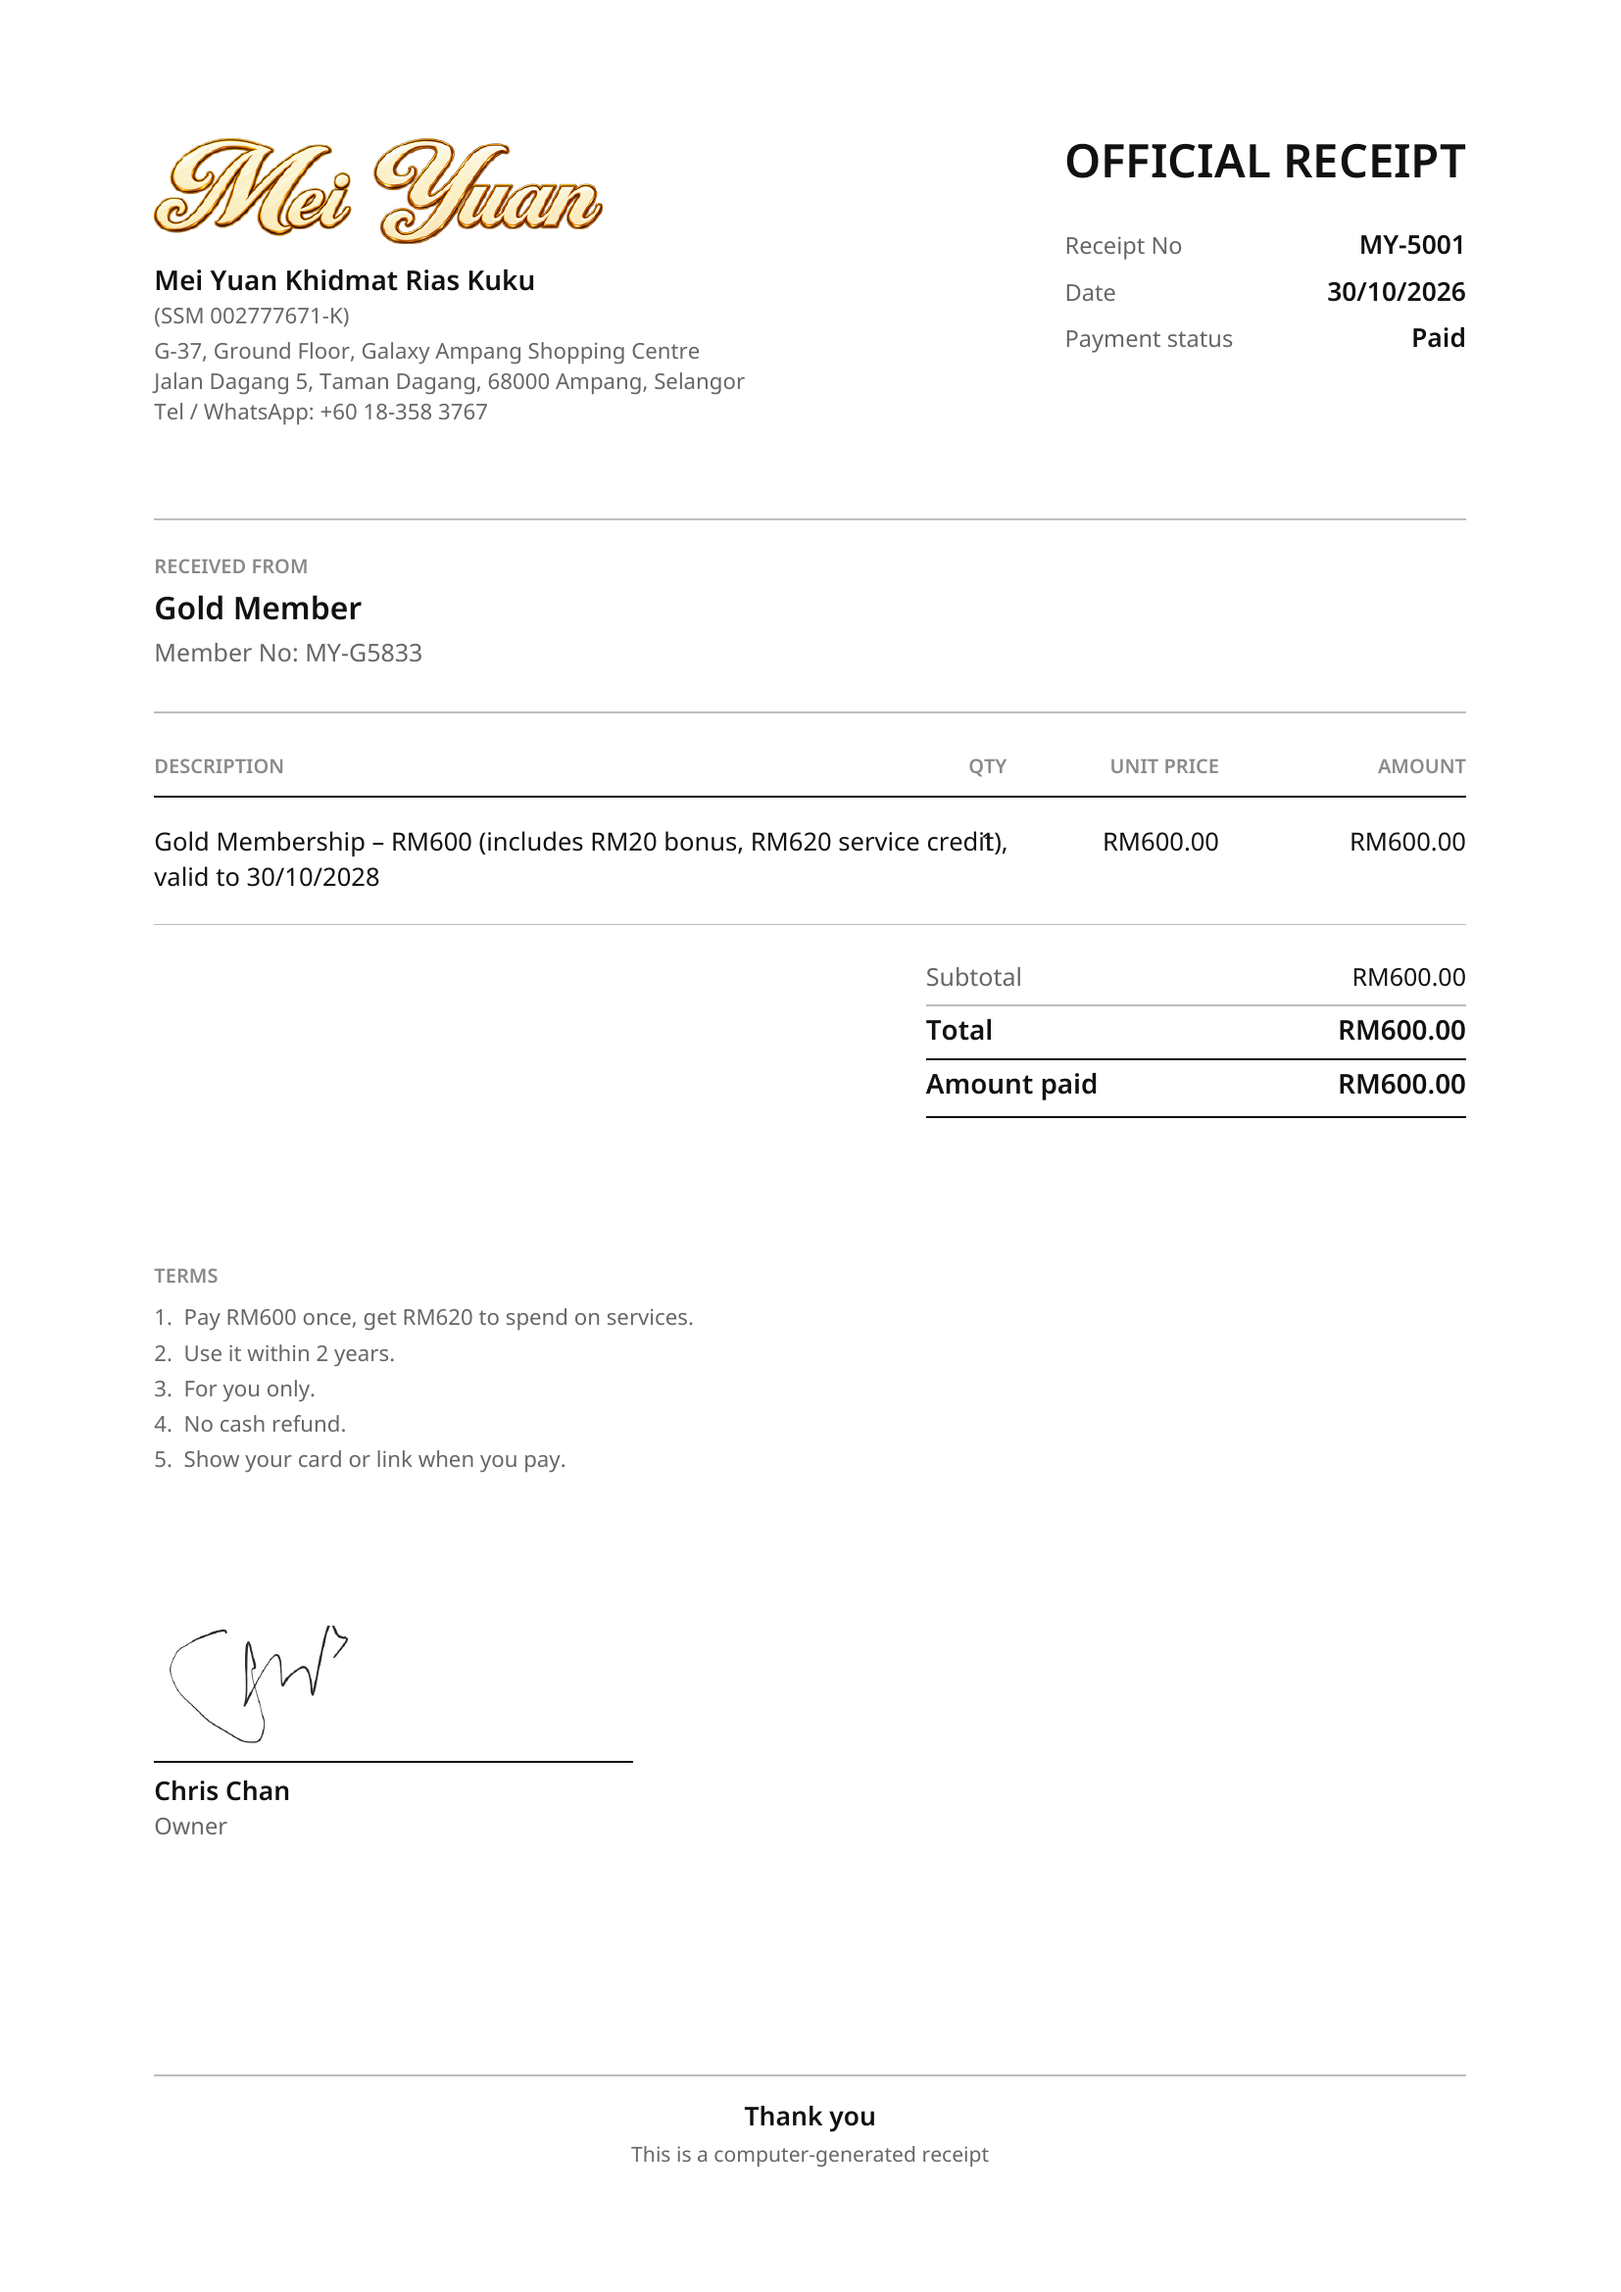
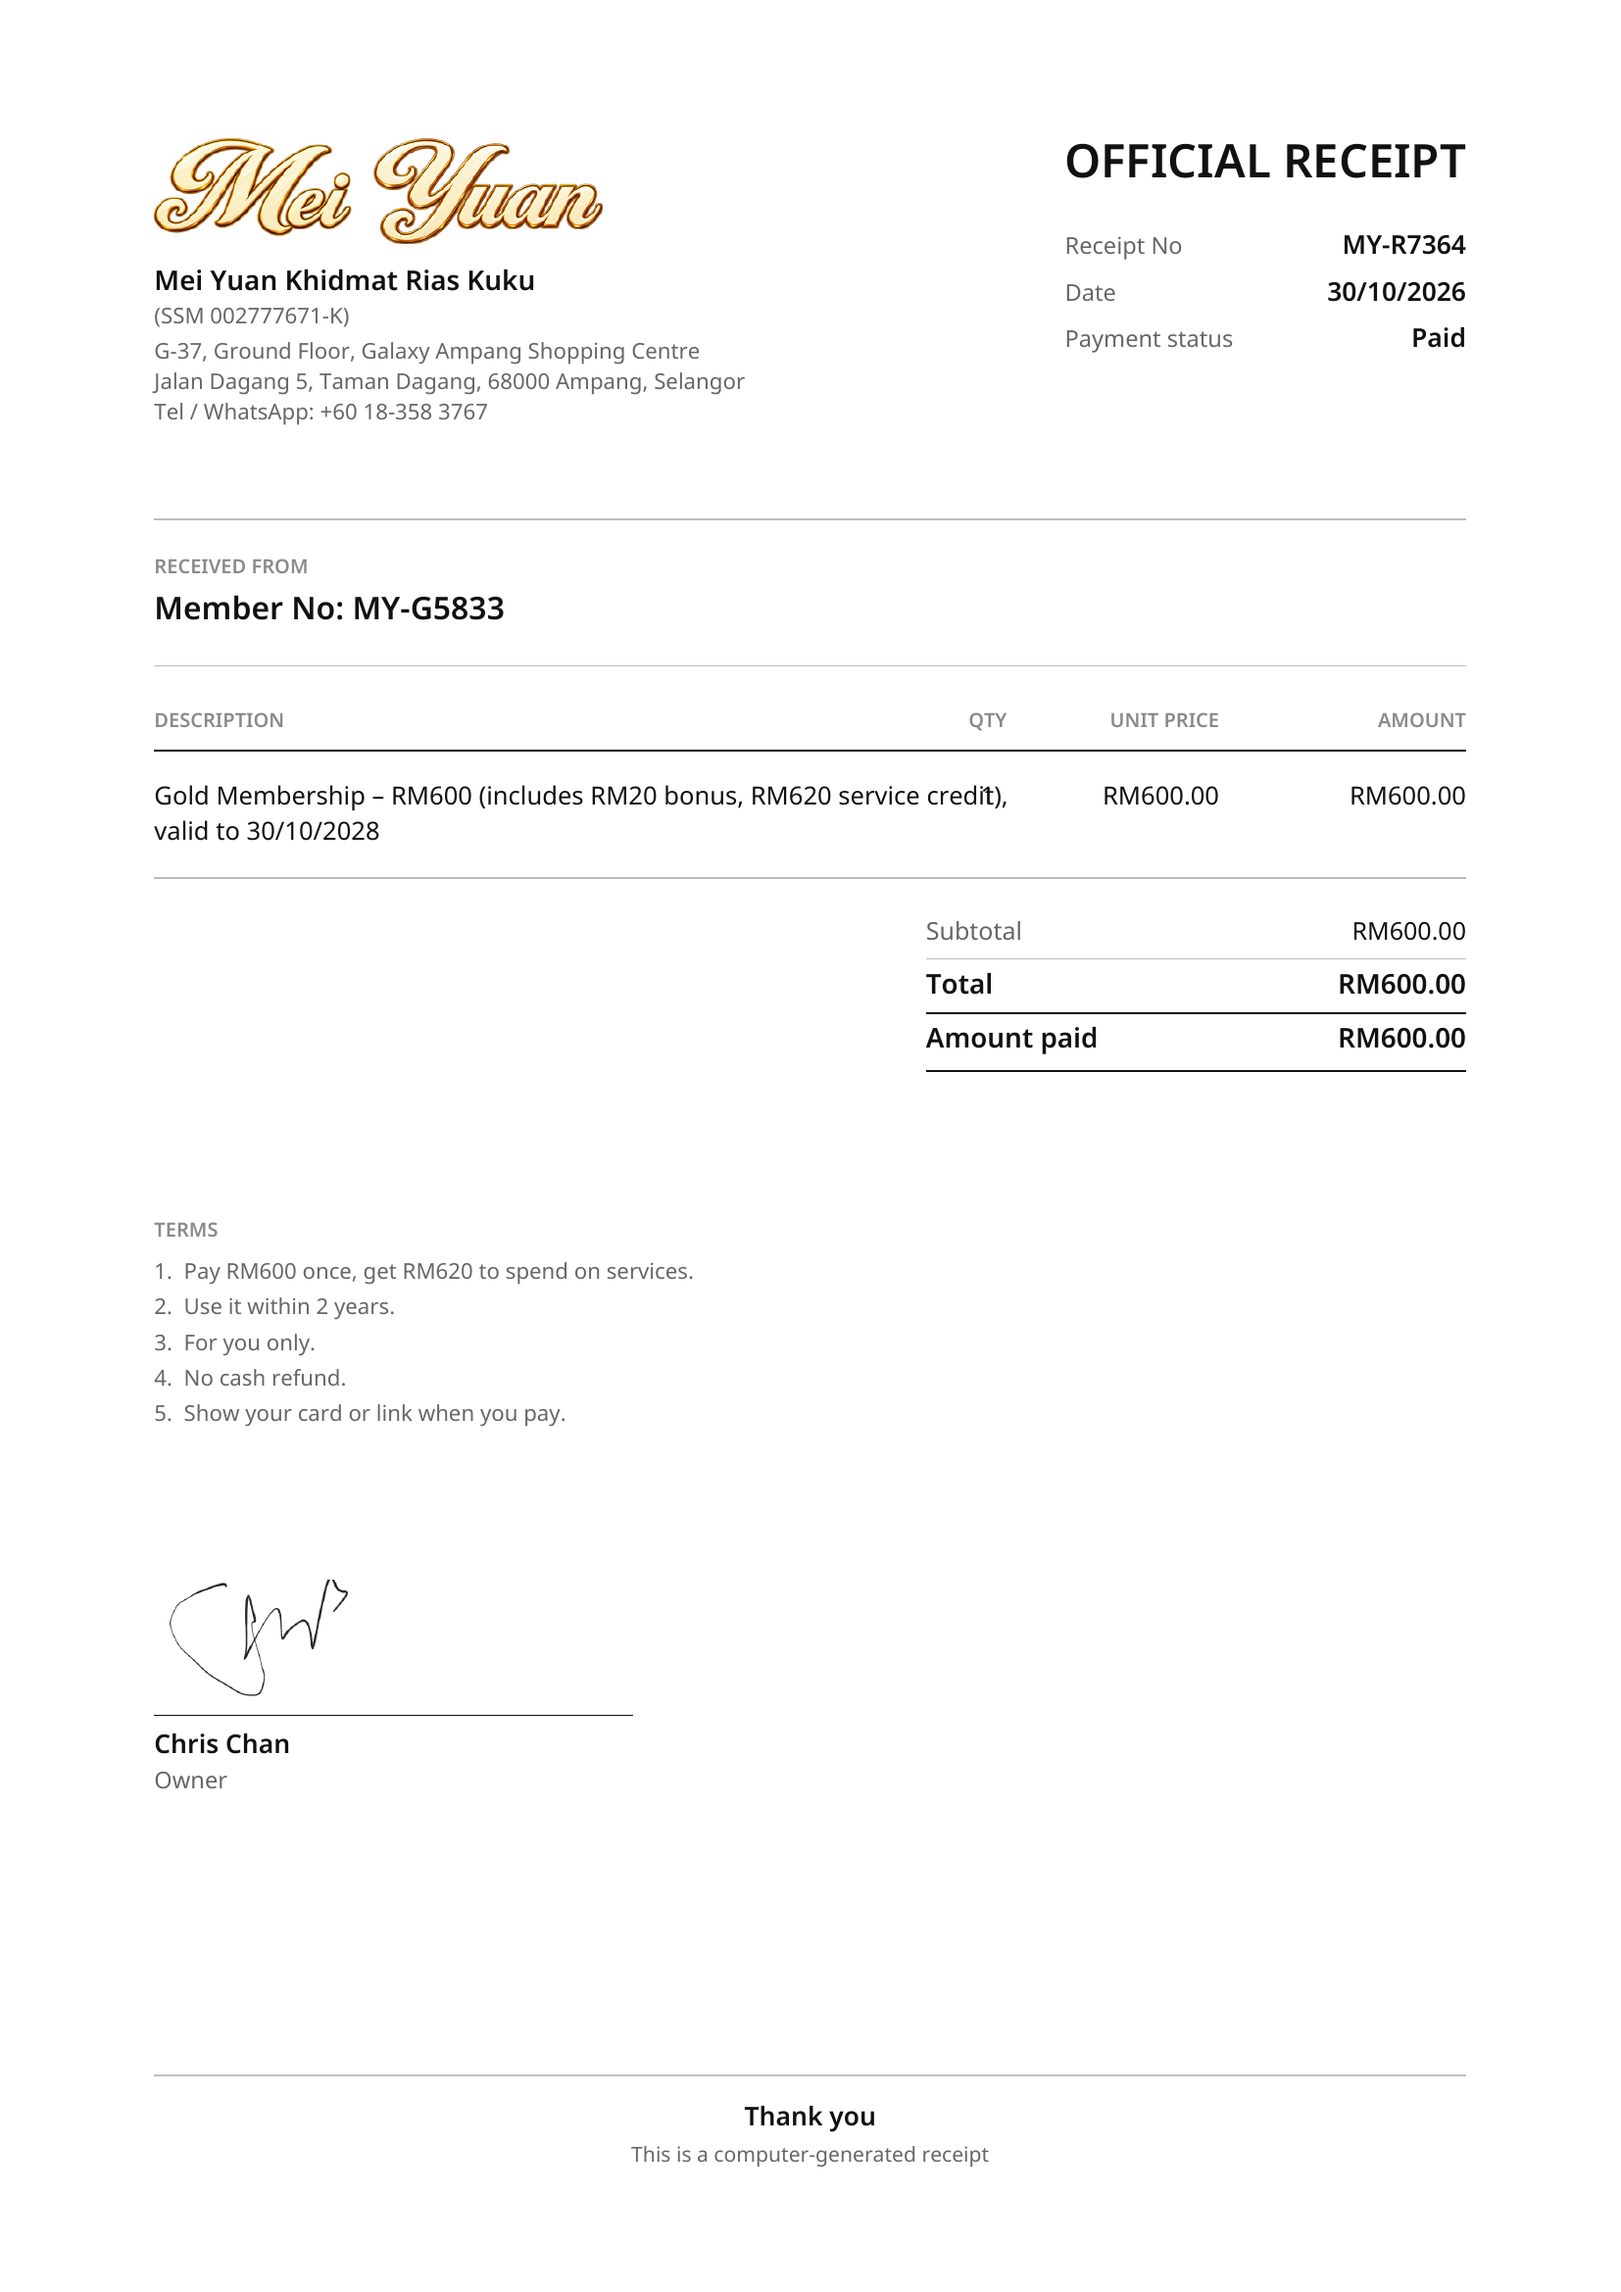
Member number only, no name; receipt MY-R7364

diff --git a/index.html b/index.html
@@ -116,7 +116,7 @@ body{padding-bottom:env(safe-area-inset-bottom)}
         <div class="row"><img class="logo" alt="Mei Yuan" src="assets/mei-yuan-wordmark.png"><div class="tag">GOLD MEMBERSHIP</div></div>
         <div class="amt" id="f-bal"></div><div class="amt-l">BALANCE LEFT</div>
         <div class="rule"></div>
-        <div class="row"><div><div class="name" id="f-name"></div><div class="num" id="f-num"></div></div>
+        <div class="row"><div><div class="name" id="f-num"></div></div>
           <div class="r"><div class="lbl">Valid to</div><div class="val" id="f-exp"></div></div></div>
       </div></div>
       <div class="face back"><div class="in">
@@ -188,7 +188,7 @@ body{padding-bottom:env(safe-area-inset-bottom)}
     const expired = today > m.expires;
     $('sub').textContent = rm(m.paid) + ' membership · ' + rm(m.credit) + ' credit';
     $('f-bal').textContent = rm(left);
-    $('f-name').textContent = m.name.toUpperCase(); $('f-num').textContent = m.id;
+    $('f-num').textContent = m.id;
     $('f-exp').textContent = fmt(m.expires); $('b-iss').textContent = fmt(m.issued); $('b-exp').textContent = fmt(m.expires);
     $('bal').innerHTML = '<small></small>' + rm(left);
     $('of').innerHTML = 'of ' + rm(m.credit) + '<br>' + rm(used) + ' used';
@@ -207,7 +207,7 @@ body{padding-bottom:env(safe-area-inset-bottom)}
       'Show your card or link when you pay.'
     ].map(t => '<li>' + t + '</li>').join('');
     if (m.receipt) fetch(m.receipt, {method: 'HEAD', cache: 'no-cache'}).then(r => { if (r.ok) { $('rcpt').href = m.receipt; $('rcpt').hidden = false; } }).catch(() => {});
-    document.title = m.name + ' · Gold Membership · Mei Yuan';
+    document.title = (m.id || id) + ' · Gold Membership · Mei Yuan';
     $('app').hidden = false;
   }).catch(() => msg('Can’t load your card', 'Check your internet and try again, or WhatsApp us.'));
 

diff --git a/store.py b/store.py
@@ -36,7 +36,7 @@ def save(data):
     ms = data["members"]
     for i, m in enumerate(ms):
         out.append('    {')
-        for k in ("id", "name", "tier", "paid", "credit", "issued", "expires"):
+        for k in ("id", "tier", "paid", "credit", "issued", "expires"):
             out.append(f'      "{k}": {j(m[k])},')
         if m.get("receipt"):
             out.append(f'      "receipt": {j(m["receipt"])},')

diff --git a/OWNER_GUIDE.md b/OWNER_GUIDE.md
@@ -30,7 +30,7 @@ Example with two visits:
 
 ## Add a member
 Copy a whole member block (from `{` to `}`), paste it after the last member, and put a comma between the two blocks. Change:
-- `id` (e.g. MY-G5083), `name`, `issued`, `expires` (2 years later)
+- `id` (e.g. MY-G5083, the member number is the only identity, no name), `issued`, `expires` (2 years later)
 - Gold 600: `"tier": "Gold 600", "paid": 600, "credit": 620`
 - Gold 1000: `"tier": "Gold 1000", "paid": 1000, "credit": 1040`
 - `"visits": []` (empty for a new member)
@@ -49,7 +49,7 @@ python3 add_visit.py MY-G5083 2026-11-10 "Gel manicure" 80
 Both keep the one-visit-per-line format.
 
 ## Privacy
-Once on GitHub Pages, `members.json` is public to anyone who knows the address. Only keep name, dates, services and amounts there. No phone, IC or payment details.
+Once on GitHub Pages, `members.json` is public to anyone who knows the address. Only keep the member number, dates, services and amounts there. No phone, IC or payment details.
 
 ## Receipts
 Put the member's receipt PDF in the `receipts/` folder (for example `receipts/MY-G5833.pdf`), then add one line to that member's block in members.json:
